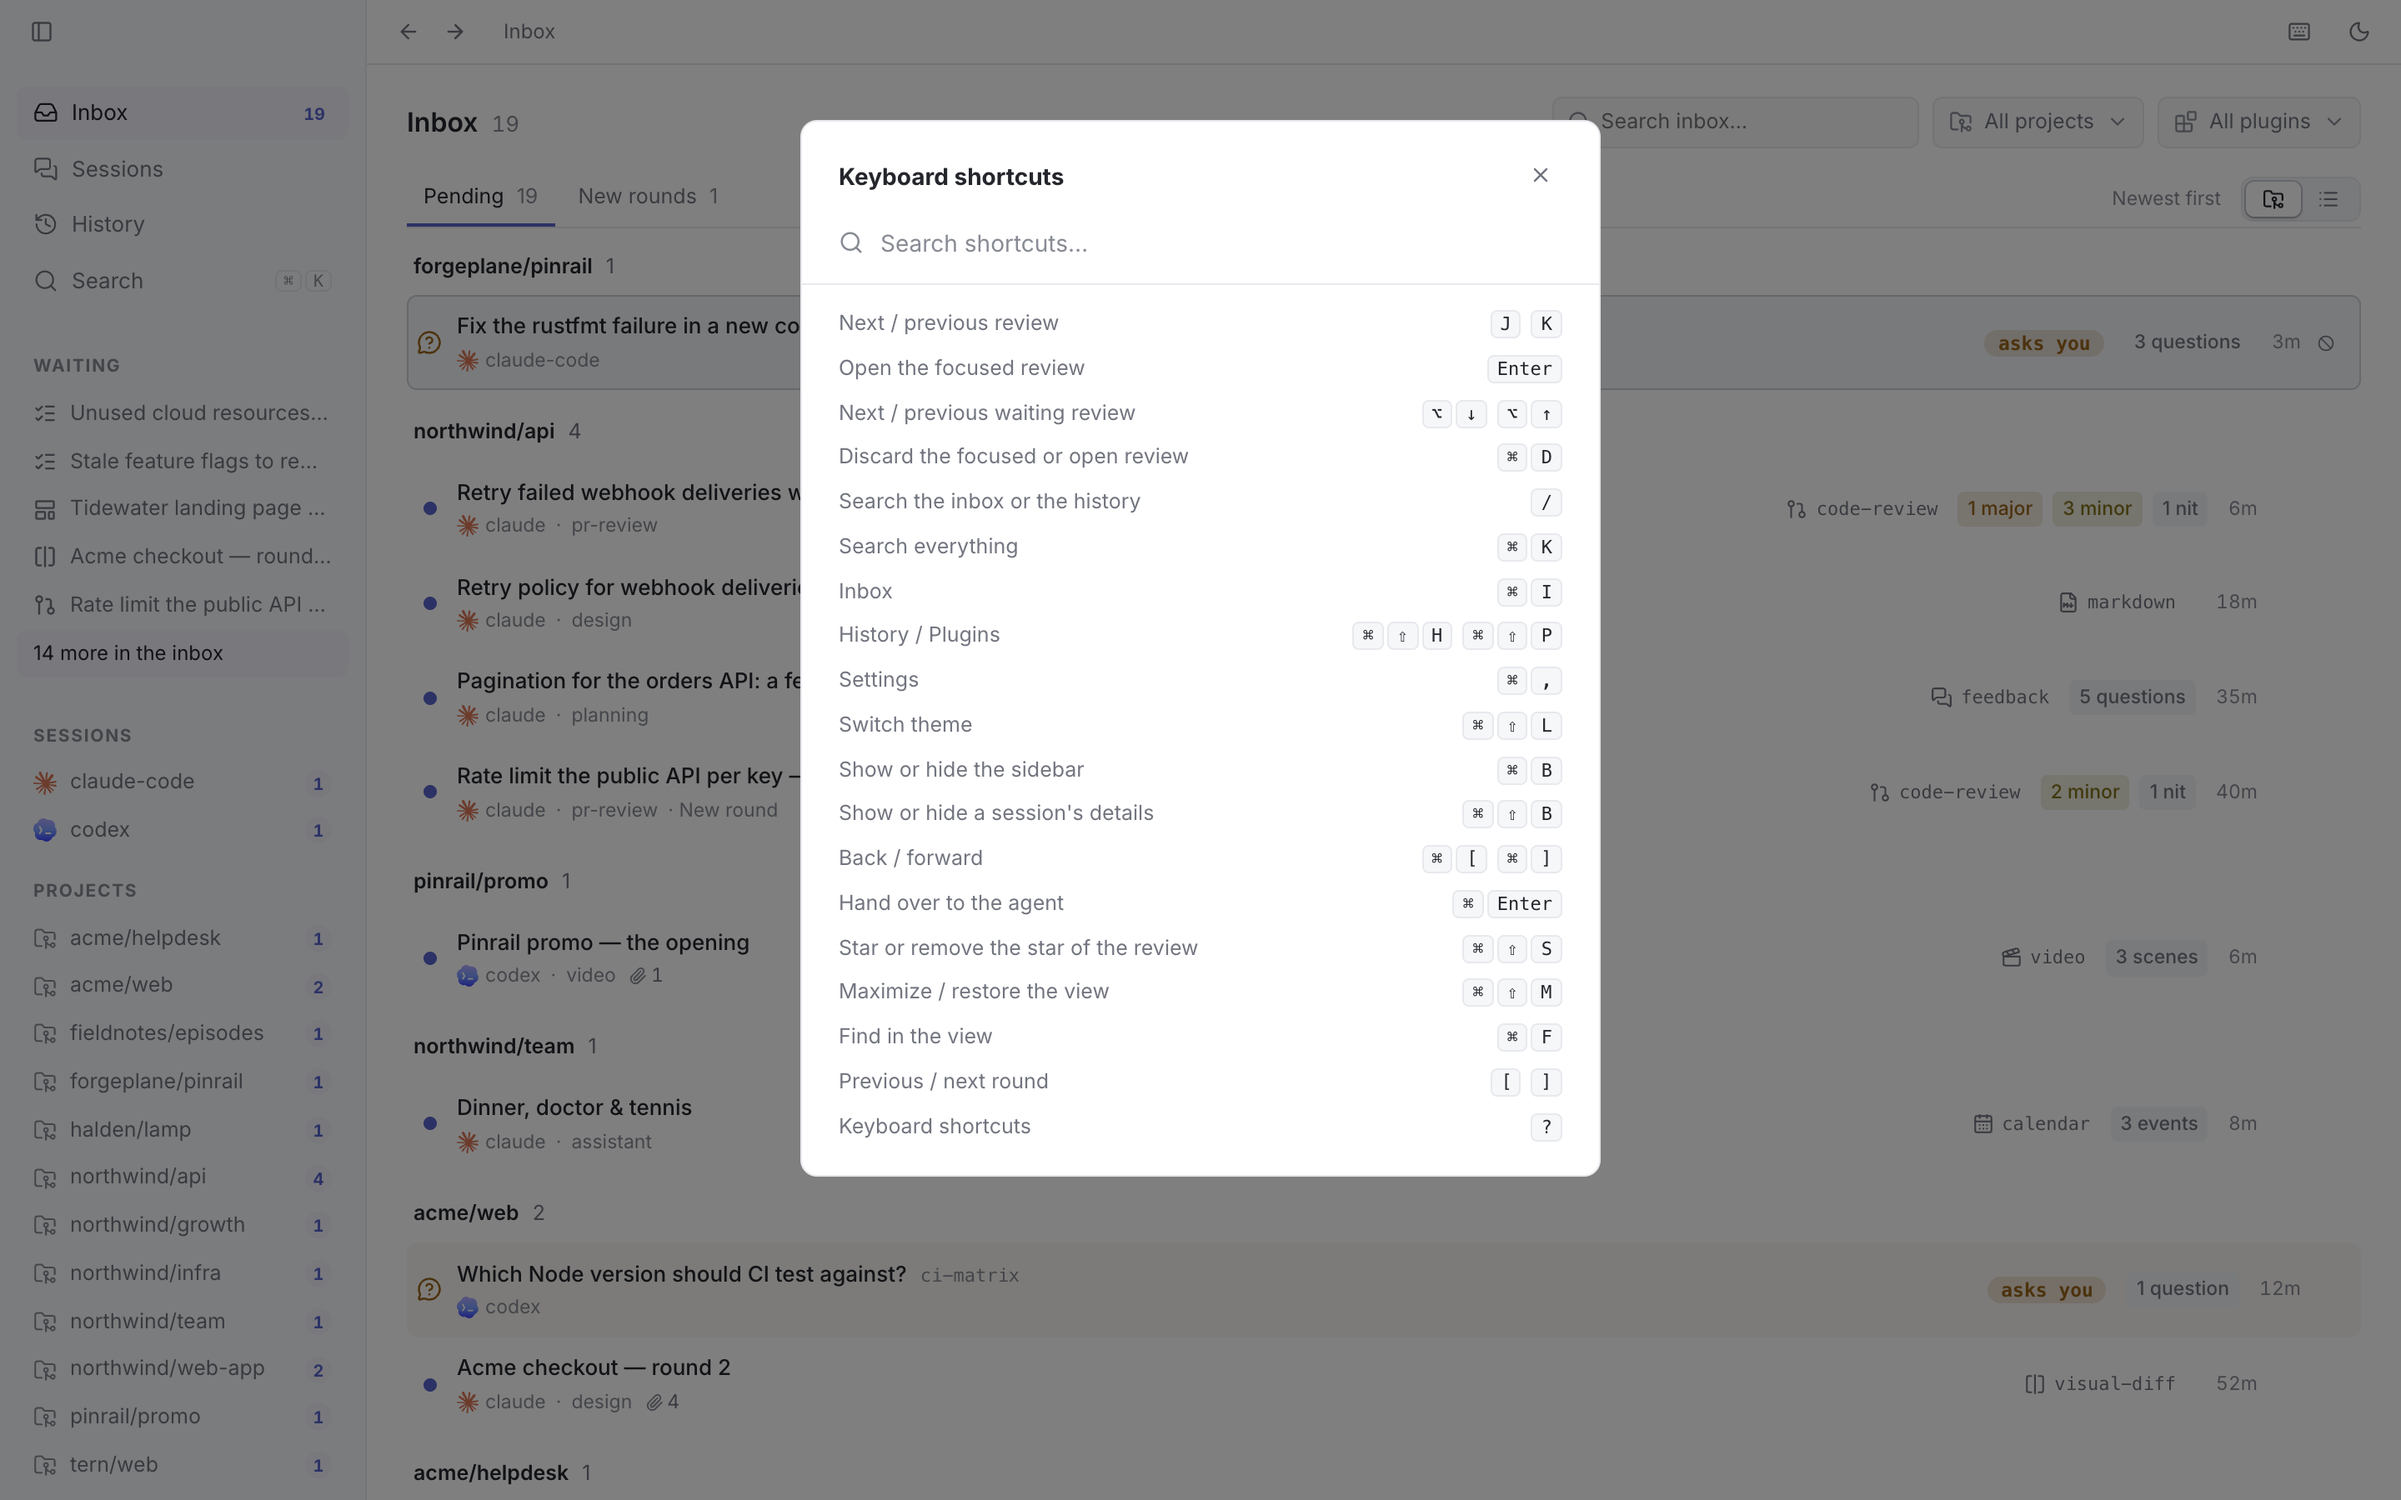
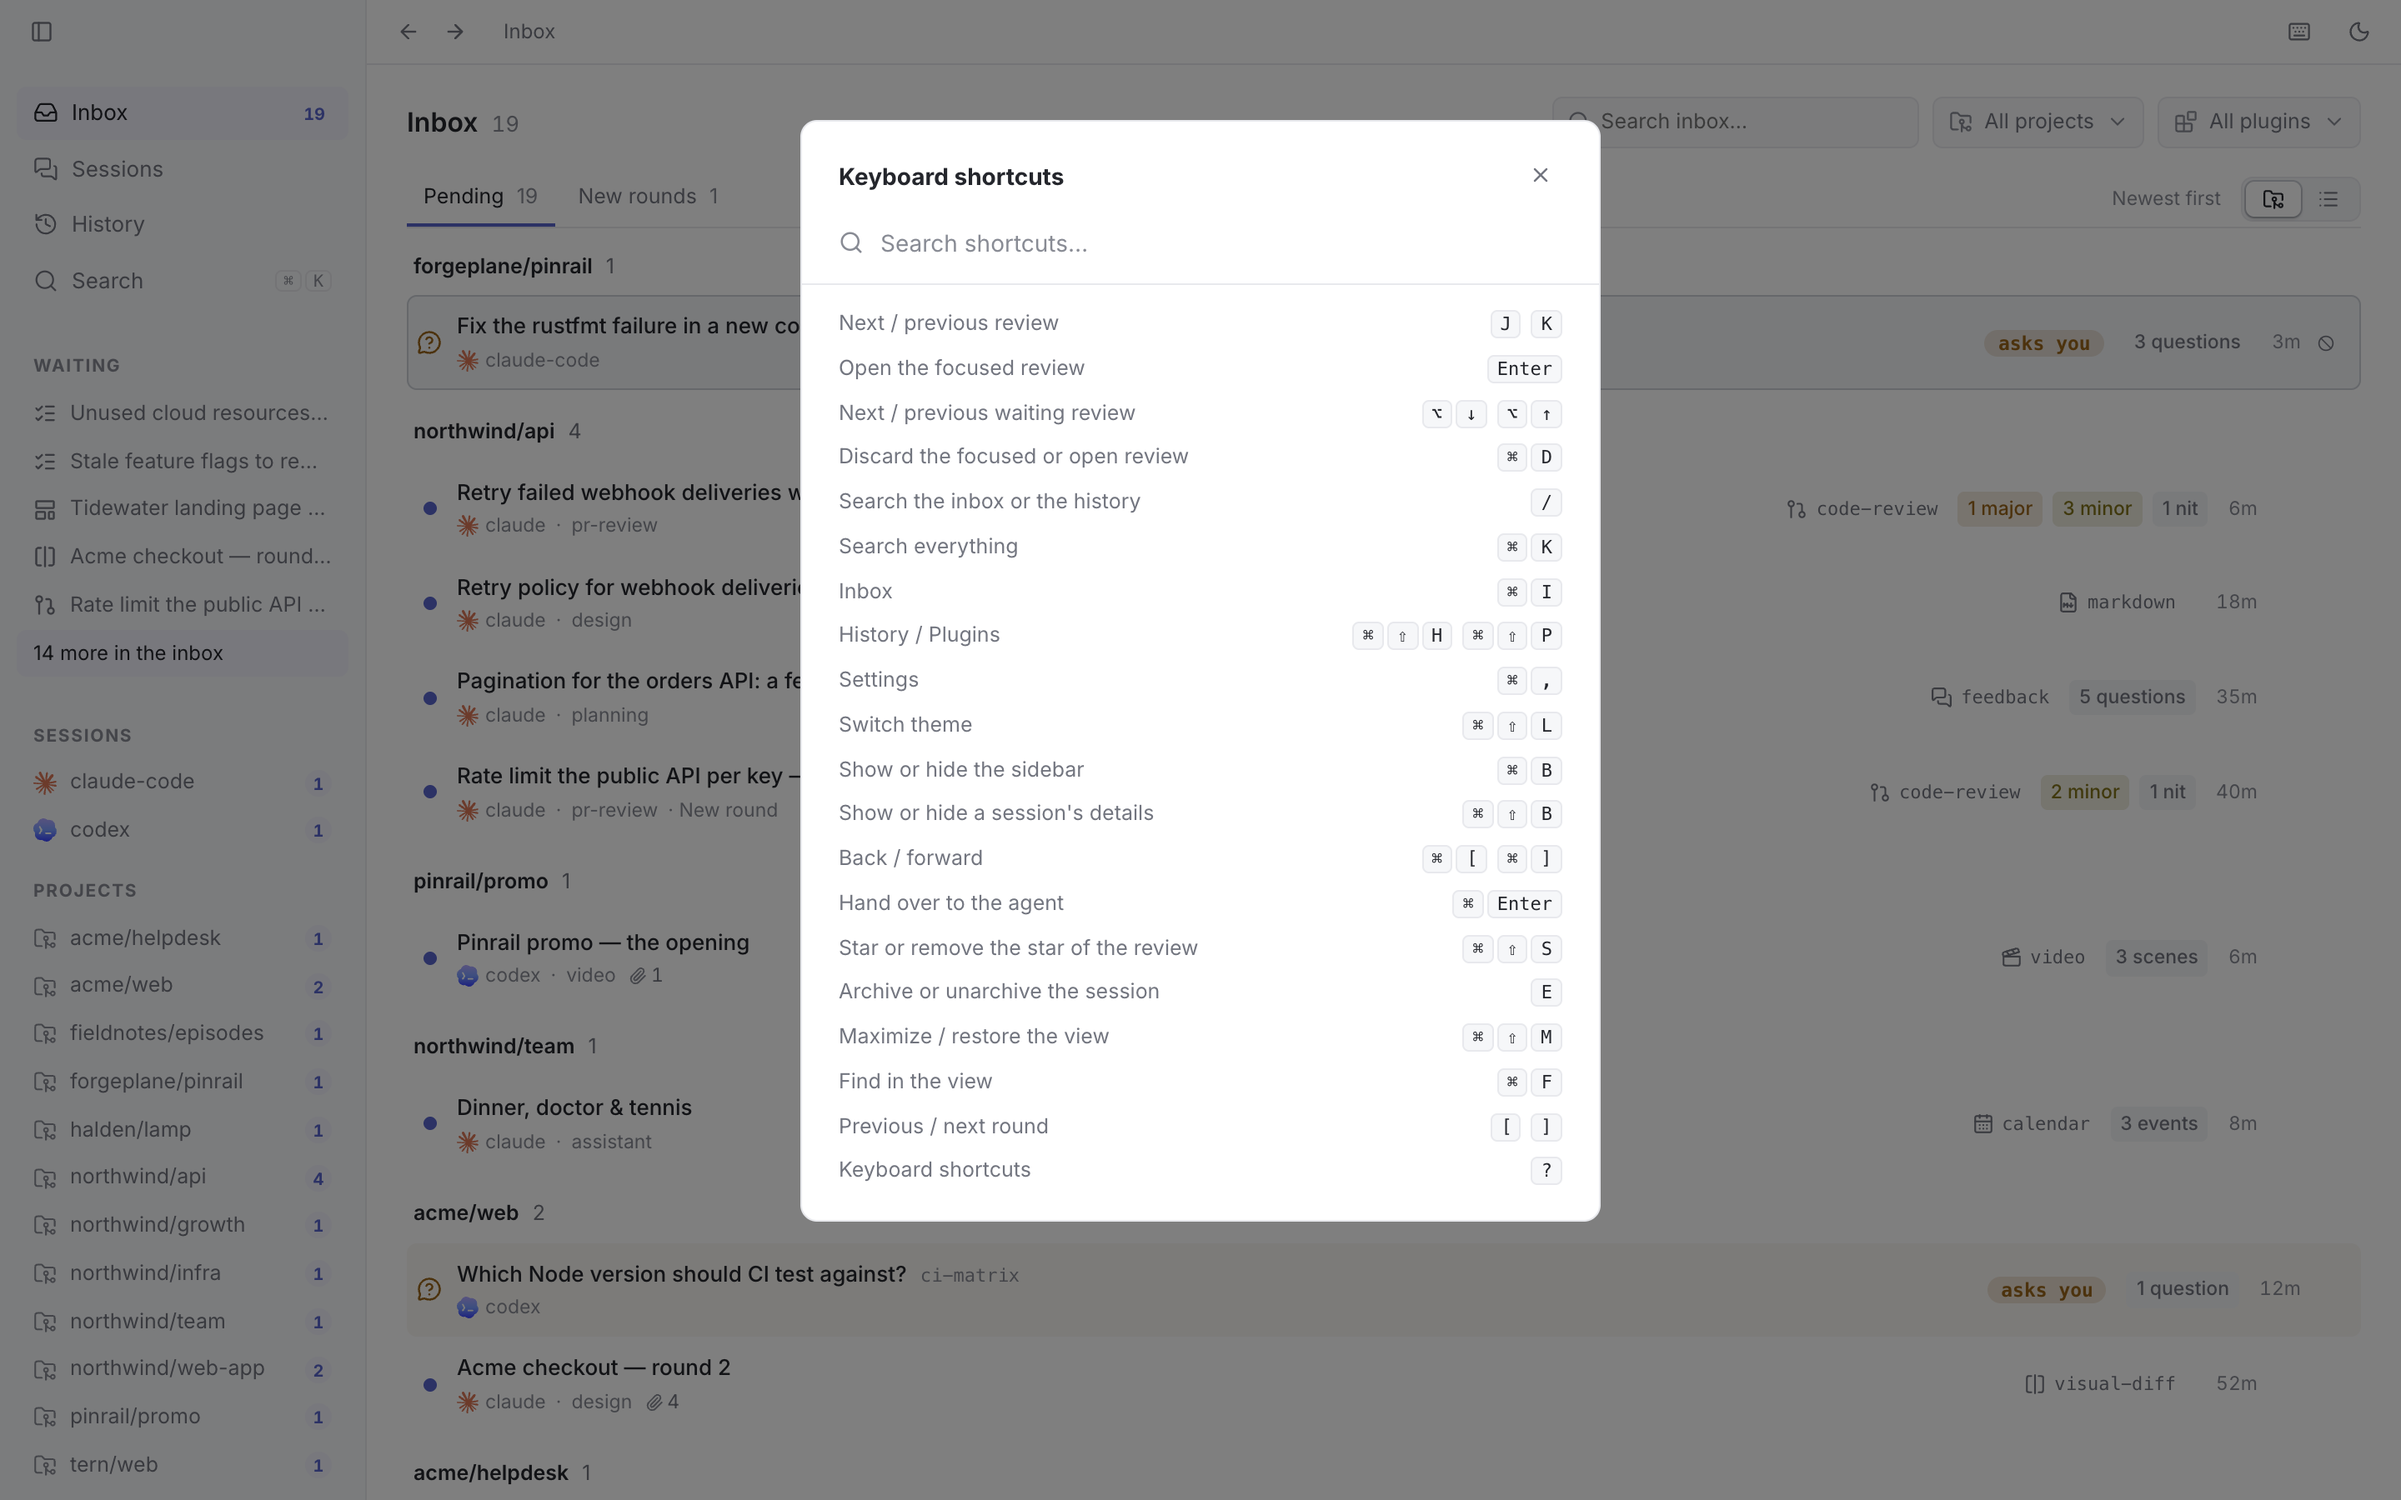
Document archiving sessions
Assisted-by: Claude Code (Claude Opus 5.5)

Changed region(s): [[0.3125, 0.6533, 0.6875, 0.84]]

diff --git a/docs/using/sessions.md b/docs/using/sessions.md
@@ -43,6 +43,8 @@ A question's thread links to its session's page with *session* and the id in its
 
 The **Sessions** page, in the sidebar, lists every session that asked you something, sent a review or reported a status: those waiting for you first, then the most recently active. Search for an agent, a session id or a title, and choose a project in the *Project* menu to list only its sessions. Click a session to open its thread in the side panel, beside the list, as the inbox opens a review. Press <kbd>J</kbd> and <kbd>K</kbd> to open the next and previous session, and <kbd>Esc</kbd> to close the panel. The panel hides the session's details at first: show them with the button in its header. *Open as a page* opens the session on its own page. When *Opening a review* is set to *As a page* in [Settings](/docs/using/settings/), sessions open on their own page too. The sidebar's *Sessions* section lists the sessions waiting for you, with how many questions and reviews wait in each.
 
+To archive a session you are done with, click the archive button at the end of its row, or press <kbd>E</kbd> on the focused row. You can also archive the open session with the button in its header, or with <kbd>E</kbd>. An archived session leaves the Sessions page and the sidebar, but nothing it sent is deleted: its questions and reviews stay in the inbox while they wait, and its thread still opens from a review's header and from the command palette. Turn on *Show archived*, beside the *Project* menu, to list the archived sessions with the others, and unarchive one with its button or <kbd>E</kbd>. When an archived session's agent sends a question, a review or a status, the session comes back by itself.
+
 ## What the agent is doing
 
 An agent that runs `pinrail status` reports what it is doing, in one line, such as *Running the integration tests*. Each status shows in the thread at the moment it was sent, between the questions and reviews. Several in a row show as one, the newest, with the earlier ones behind *N earlier*.

diff --git a/CHANGELOG.md b/CHANGELOG.md
@@ -35,6 +35,9 @@ The `pinrail` command ships inside the app and carries the app's version.
 - The Sessions page filters the sessions by project.
 - A review sent from a session links to the session's thread from its
   header.
+- Archive a session from its header, its row on the Sessions page or
+  with E. Show archived lists archived sessions with the others, and new
+  activity from the agent brings a session back.
 - The command palette finds the stages agents started, and opens the
   session's thread where a stage started.
 - Star a review to find it again later, from its header, with ⌘⇧S, or

diff --git a/docs/using/inbox.md b/docs/using/inbox.md
@@ -104,6 +104,7 @@ Press <kbd>?</kbd> anywhere in the app to see these. On Linux, use <kbd>Ctrl</kb
 | <kbd>⌘[</kbd> / <kbd>⌘]</kbd> | Back / forward |
 | <kbd>⌘↵</kbd> | Hand over to the agent |
 | <kbd>⌘⇧S</kbd> | Star or remove the star of the review |
+| <kbd>E</kbd> | Archive or unarchive the session |
 | <kbd>⌘⇧M</kbd> | Maximize / restore the view |
 | <kbd>⌘F</kbd> | Find in the view |
 | <kbd>[</kbd> / <kbd>]</kbd> | Previous / next round |
